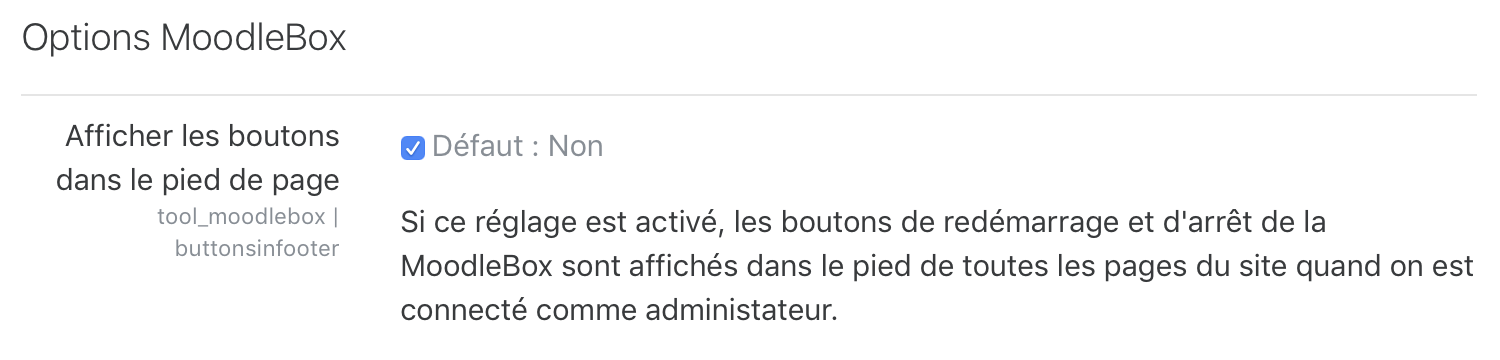
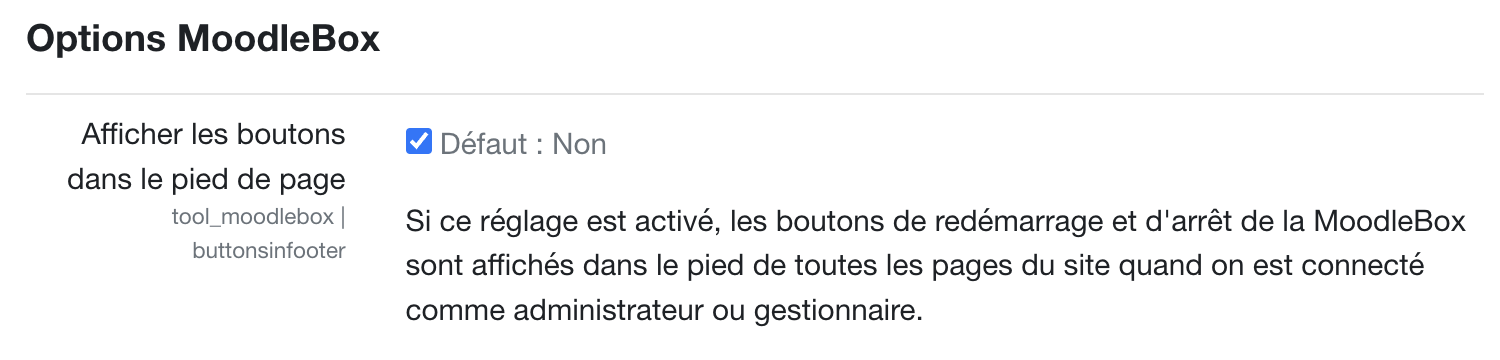
Update documentation and screenshots

diff --git a/content/fr/help/change-password/index.md b/content/fr/help/change-password/index.md
@@ -4,7 +4,7 @@ authors:
   - Nicolas Martignoni
 type: kb
 date: 2018-11-02
-lastmod: 2018-11-02
+lastmod: 2022-08-14
 description: On peut changer le mot de passe principal de la MoodleBox en visitant le tableau de bord dans l'interface d'administration
 slug: changer-mot-de-passe-principal
 categories_weight: 5
@@ -12,7 +12,7 @@ categories:
   - Utilisation
 ---
 
-{{< notice warning >}}
+{{< notice info >}}
 Il est vivement recommandé de __changer immédiatement__ le mot de passe principal de la MoodleBox, afin d'éviter que des personnes non autorisées y pratiquent des modifications non désirées et la rendent inutilisable.
 {{< /notice >}}
 
@@ -20,11 +20,11 @@ Pour changer le mot de passe principal de votre MoodleBox, visitez le tableau de
 
 Ce mot de passe fait partie des informations d'identification principales de la MoodleBox. Il donne accès à l'[interface en ligne de commande][5] de la MoodleBox, au [téléchargement de fichiers par SFTP][6] ainsi qu'à l'[administration de la base de données][7].
 
-{{< figure src="/img/media/change-password-fr.png" title="Changer le mot de passe principal" caption-position="bottom" caption-effect="appear" width="600"  >}}
+{{< figure src="change-password-fr.png" title="Changer le mot de passe principal" class="centered-image" width="490" >}}
 
 Dans la section __Mot de passe MoodleBox__, saisissez votre nouveau mot de passe, le même dans les deux champs. En cliquant sur l'icône d'œil, vous pouvez faire apparaître les caractères que vous avez tapés. Nous recommandons de choisir un mot de passe fort.
 
-{{< notice info >}}
+{{< notice tip >}}
 Le mot de passe du compte administrateur de Moodle __n'est pas modifié__ par cette opération. Pour changer ce mot de passe-là, connectez-vous à Moodle, visitez les <a href="http://moodlebox.home/user/preferences.php" target="_blank">préférences de votre profil</a> et <a href="http://moodlebox.home/login/change_password.php" target="_blank">changez le mot de passe</a>.
 {{< /notice >}}
 

diff --git a/content/fr/help/access-to-the-database/index.md b/content/fr/help/access-to-the-database/index.md
@@ -4,17 +4,13 @@ authors:
   - Nicolas Martignoni
 type: kb
 date: 2017-04-20
-lastmod: 2019-07-12
+lastmod: 2022-08-14
 description: Pour accéder à la base de données de Moodle de la MoodleBox au moyen de Adminer, consultez les informations ci-dessous.
 slug: acces-base-de-donnees
 categories:
   - Maintenance
 
 ---
-{{< notice warning >}}
-Il est fortement déconseillé de modifier manuellement la base de données de Moodle. N’effectuez de telles opérations que si vous savez exactement ce que vous faites. Dans tous les cas, __aucune assistance n'est assurée__ sur ce sujet et nous déclinons toute responsabilité pour des pertes de données.
-{{< /notice >}}
-
 La MoodleBox permet à des fins d'administration un accès direct à la base de données de Moodle, au moyen du logiciel [Adminer][3]. Pour accéder à l'interface de connexion, on charge l'URL [http://moodlebox.home/adminer.php][1] dans un navigateur. Les données de connexion sont indiquées ci-dessous. Bien entendu le mot de passe sera différent si vous l'avez changé d'une façon ou d'une autre.
 
   * Nom d'utilisateur : __moodlebox__
@@ -23,7 +19,7 @@ La MoodleBox permet à des fins d'administration un accès direct à la base de 
 {{< figure src="adminer.png" width="782" title="Accès base de données avec Adminer" class="centered-image" >}}
 
 {{< notice info >}}
-Dans les versions de la MoodleBox antérieure à la version 3.0.0, l'outil phpMyAdmin était utilisé pour accéder à la base de données, via l'URL [http://moodlebox.home/phpmyadmin](http://moodlebox.home/phpmyadmin).
+Il est fortement déconseillé de modifier manuellement la base de données de Moodle. N’effectuez de telles opérations que si vous savez exactement ce que vous faites. Dans tous les cas, __aucune assistance n'est assurée__ sur ce sujet et nous déclinons toute responsabilité pour des pertes de données.
 {{< /notice >}}
 
  [1]: http://moodlebox.home/adminer.php

diff --git a/content/fr/help/copy-the-disk-image/index.md b/content/fr/help/copy-the-disk-image/index.md
@@ -4,18 +4,20 @@ authors:
   - Nicolas Martignoni
 type: kb
 date: 2017-04-17
-lastmod: 2018-12-15
+lastmod: 2022-08-14
 description: Pour copier l'image-disque MoodleBox sur une carte SD, suivez ces instructions.
 slug: copier-limage-disque-sur-une-carte-sd
 categories_weight: 4
 categories:
   - Premiers pas
 ---
+Vous avez déjà téléchargé l'[image-disque][1] ?
 
-Commencez par [télécharger balenaEtcher][2] (anciennement appelé _Etcher_), puis suivez les instructions dans balenaEtcher pour copier sur votre carte microSD le fichier __{{< ghrelease user="moodlebox" repo="moodlebox" data="file_name" >}}__ que [vous avez téléchargé][1].
+Poursuivez en [téléchargeant balenaEtcher][2] (anciennement appelé _Etcher_), puis suivez les instructions dans balenaEtcher pour copier sur votre carte microSD le fichier __{{< ghrelease user="moodlebox" repo="moodlebox" data="file_name" >}}__ que [vous avez téléchargé][1].
 
-{{< figure src="/img/media/etcher-copy.png" title="Copie avec balenaEtcher" caption-position="bottom" caption-effect="appear" width="800" >}}
+{{< figure src="/img/media/etcher-copy.png" title="Copie avec balenaEtcher" class="centered-image" width="700" >}}
 
+<!--
 ### Pour les geeks
 
 Si vous préférez utiliser la ligne de commande pour copier l'image-disque sur votre carte, décompressez le fichier __{{< ghrelease user="moodlebox" repo="moodlebox" data="file_name" >}}__ que [vous avez téléchargé][1] et suivez les [instructions][3] pour copier l'image-disque __moodlebox-{{< ghrelease user="moodlebox" repo="moodlebox" data="version" >}}.img__ sur la carte microSD.
@@ -23,6 +25,7 @@ Si vous préférez utiliser la ligne de commande pour copier l'image-disque sur 
   * [Instructions pour Mac OS][4]
   * [Instructions pour Windows][5]
   * [Instructions pour Linux][6]
+ -->
 
  [1]: {{< relref "help/download-the-disk-image" >}}
  [2]: https://www.balena.io/etcher/

diff --git a/content/de/help/change-password/index.md b/content/de/help/change-password/index.md
@@ -4,7 +4,7 @@ authors:
   - Nicolas Martignoni
 type: kb
 date: 2018-11-02
-lastmod: 2018-11-02
+lastmod: 2022-08-14
 description: Sie können das Hauptpasswort der MoodleBox ändern, indem Sie das Dashboard in der Administration durchsuchen.
 slug: change-main-password
 categories_weight: 5
@@ -12,7 +12,7 @@ categories:
   - Nutzung
 ---
 
-{{< notice warning >}}
+{{< notice info >}}
 Es wird dringend empfohlen, das Hauptkennwort der MoodleBox __sofort zu ändern__, um zu verhindern, dass Unbefugte unerwünschte Änderungen vornehmen und es unbrauchbar machen.
 {{< /notice >}}
 
@@ -20,11 +20,11 @@ Um das Hauptpasswort Ihrer MoodleBox zu ändern, besuchen Sie das Dashboard in d
 
 Dieses Passwort ist Teil der Hauptzugangsdaten Ihrer MoodleBox. Sie ermöglicht den [Zugang zum Betriebssystem][5] der MoodleBox, auf den [SFTP-Datei-Upload][6] sowie auf die [Datenbankverwaltung][7].
 
-{{< figure src="/img/media/change-password-de.png" title="Ändern des Hauptkennworts" caption-position="bottom" caption-effect="appear" width="600"  >}}
+{{< figure src="change-password-de.png" title="Ändern des Hauptkennworts" class="centered-image" width="480" >}}
 
 Geben Sie im Abschnitt __MoodleBox-Kennwort__ Ihr neues Kennwort ein, in beiden Feldern gleich. Durch Klicken auf das Augensymbol können Sie sich die von Ihnen eingegebenen Zeichen anzeigen lassen. Wir empfehlen, ein sicheres Passwort zu wählen.
 
-{{< notice info >}}
+{{< notice tip >}}
 Das Kennwort für das Moodle-Administratorkonto __wird durch diesen Vorgang nicht geändert__. Um dieses Kennwort zu ändern, melden Sie sich bei Moodle an, besuchen Sie die <a href="http://moodlebox.home/user/preferences.php" target="_blank">Einstellungen für Ihr Profil</a> und <a href="http://moodlebox.home/login/change_password.php" target="_blank">ändern Sie das Kennwort</a>.
 {{< /notice >}}
 

diff --git a/content/fr/help/buttons-in-footer/index.md b/content/fr/help/buttons-in-footer/index.md
@@ -4,7 +4,7 @@ authors:
   - Nicolas Martignoni
 type: kb
 date: 2019-05-20
-lastmod: 2019-07-15
+lastmod: 2022-08-14
 description: Pour une administration plus simple, il est possible d'afficher les boutons de redémarrage et d'arrêt de la MoodleBox dans le pied de toutes les pages de Moodle.
 slug: boutons-dans-le-pied-de-page
 categories_weight: 30
@@ -12,10 +12,6 @@ categories:
   - Utilisation
 
 ---
-{{< notice note >}}
-Cette fonctionnalité est disponible à partir de la __version 2.7.0__ de MoodleBox. Pour en bénéficier sur une version antérieure, il suffit de [mettre à jour le plugin _MoodleBox_](http://moodlebox.home/admin/plugins.php?updatesonly=0&contribonly=1) dans l'interface d'administration de Moodle.
-{{< /notice >}}
-
 Grâce à l'affichage en pied de page des boutons de redémarrage et d'arrêt de la MoodleBox, son administration est plus intuitive et plus simple.
 
 {{< figure src="buttons-footer.png" width="800" title="Boutons de redémarrage et d'arrêt en pied de page" class="centered-image" >}}
@@ -26,7 +22,7 @@ L'activation de cette fonctionnalité s'effectue en visitant les options de la M
 
 Après avoir enregistré les modifications, les boutons de redémarrage et d'arrêt de la MoodleBox seront affichés pour les rôles Moodle avec la capacité `tool/moodlebox:viewbuttonsinfooter`, accordée par défaut au rôle de gestionnaire et bien entendu aux administrateurs. Ils ne sont pas affichés pour les autres utilisateurs.
 
-{{< notice warning >}}
+{{< notice tip >}}
 Afin de limiter au maximum les risques de corruption de données sur la carte microSD, pour éteindre la MoodleBox, il n'est pas recommandé de débrancher l'alimentation sans précaution. Il est préférable de commander manuellement son arrêt au préalable.
 {{< /notice >}}
 

diff --git a/content/en/help/change-password/index.md b/content/en/help/change-password/index.md
@@ -4,7 +4,7 @@ authors:
   - Nicolas Martignoni
 type: kb
 date: 2018-11-02
-lastmod: 2018-11-02
+lastmod: 2022-08-14
 description: You can change the main password of the MoodleBox by browsing the dashboard in the administration interface
 slug: change-main-password
 categories_weight: 5
@@ -12,7 +12,7 @@ categories:
   - Usage
 ---
 
-{{< notice warning >}}
+{{< notice info >}}
 It is strongly recommended to __immediately change__ the main password of the MoodleBox, in order to prevent unauthorized persons from making unwanted changes and rendering it unusable.
 {{< /notice >}}
 
@@ -20,11 +20,11 @@ To change the main password of your MoodleBox, visit the dashboard in the admini
 
 This password is part of the main credentials of your MoodleBox. It gives access to the [command line interface][5] of the MoodleBox, to the [SFTP file upload][6]  as well as to the [database administration][7].
 
-{{< figure src="/img/media/change-password-en.png" title="Change the main password" caption-position="bottom" caption-effect="appear" width="600"  >}}
+{{< figure src="change-password-en.png" title="Change the main password" class="centered-image" width="425" >}}
 
 In the __MoodleBox password section__, enter your new password, the same in both fields. By clicking on the eye icon, you can display the characters you have typed. We recommend choosing a strong password.
 
-{{< notice info >}}
+{{< notice tip >}}
 The password for the Moodle administrator account __is not changed__ by this operation. To change that password, log in to Moodle, visit the <a href="http://moodlebox.home/user/preferences.php" target="_blank">preferences for your profile</a> and <a href="http://moodlebox.home/login/change_password.php" target="_blank">change the password</a>.
 {{< /notice >}}
 

diff --git a/content/de/help/access-to-the-database/index.md b/content/de/help/access-to-the-database/index.md
@@ -6,17 +6,13 @@ authors:
   - Ralf Krause
 type: kb
 date: 2018-02-02
-lastmod: 2019-07-12
+lastmod: 2022-08-14
 description: Um mit Adminer auf die Moodle-Datenbank von MoodleBox zuzugreifen, lesen Sie die folgende Informationen
 slug: zugrif-auf-die-datenbank
 categories:
   - Wartung
 
 ---
-{{< notice warning >}}
-Es wird dringend davon abgeraten, die Moodle-Datenbank direkt zu manipulieren. Tun Sie dies nur, wenn Sie genau wissen, was Sie tun. In jedem Fall wird __keine Unterstützung__ zu diesem Thema geleistet und der Autor übernimmt keinerlei Verantwortung für Datenverluste.
-{{< /notice >}}
-
 Die MoodleBox erlaubt den direkten Zugriff auf die Moodle-Datenbank mit der Software [Adminer][1]. Um sich über PhpMyAdmin einzuloggen, rufen Sie im Browser die URL [http://moodlebox.home/adminer.php][1] auf. Die Zugangsdaten sind wie folgt. Natürlich lauten die Zugänge anders, wenn Sie etwas geändert haben.
 
   * Username: __moodlebox__
@@ -25,7 +21,7 @@ Die MoodleBox erlaubt den direkten Zugriff auf die Moodle-Datenbank mit der Soft
 {{< figure src="adminer.png" width="782" title="Datenbank Zugriff mit Adminer" class="centered-image" >}}
 
 {{< notice info >}}
-In MoodleBox-Versionen vor Version 3.0.0 wurde das Tool phpMyAdmin verwendet, um über die URL [http://moodlebox.home/phpmyadmin](http://moodlebox.home/phpmyadmin) auf die Datenbank zuzugreifen.
+Es wird dringend davon abgeraten, die Moodle-Datenbank direkt zu manipulieren. Tun Sie dies nur, wenn Sie genau wissen, was Sie tun. In jedem Fall wird __keine Unterstützung__ zu diesem Thema geleistet und der Autor übernimmt keinerlei Verantwortung für Datenverluste.
 {{< /notice >}}
 
  [1]: http://moodlebox.home/adminer.php

diff --git a/content/de/help/access-to-moodle/index.md b/content/de/help/access-to-moodle/index.md
@@ -6,7 +6,7 @@ authors:
   - Ralf Krause
 type: kb
 date: 2018-02-01
-lastmod: 2019-07-13
+lastmod: 2022-08-14
 description: Für die Anmeldung in der Moodle-Plattform auf der MoodleBox müssen Sie sich zunächst in deren drahtlosem WLAN-Netzwerk verbinden, dann http://moodlebox.home/ öffnen
 slug: anmelden-in-moodle
 categories_weight: 6
@@ -21,15 +21,11 @@ Nachdem Sie mit dem WLAN der MoodleBox verbunden sind, können Sie über Ihren B
   * Anmeldename: __moodlebox__
   * Kennwort: __Moodlebox4$__
 
-{{< figure src="moodle-login-de.png" title="Anmelden in Moodle" caption-position="bottom" caption-effect="appear" width="610" >}}
+{{< figure src="moodle-login-de.png" title="Anmelden in Moodle" class="centered-image" width="618" >}}
 
 Sie sind jetzt mit dem Administratorkonto im Moodle auf der MoodleBox verbunden. __Es wird dringend empfohlen, das Initialkennwort__ des Administratorkontos bei der ersten Anmeldung zu ändern.
 
 Die Moodle-Plattform hat genau ein Nutzerkonto (Administrator), wenn es bereit gestellt wird. Alle weiteren Nutzerkonten müssen Sie selber hinzufügen. Beim Start ist die Moodle-Plattform leer und es sind keine Kurse angelegt. Die Moodle-Plattform muss von Ihnen selber angepasst werden, genauso wie Sie auch alle Kursinhalte (Materialien, Aktivitäten, etc.) erstellen müssen. Falls Sie nicht genau wissen wie das geht, finden Sie alle notwendigen Infos in der [Moodle-Dokumentation][3].
-
-{{< notice info >}}
-Der seit Version 2.5.2 deprecated Benutzername __admin__ wird ab Version 3.0.0 der MoodleBox nicht mehr installiert.
-{{< /notice >}}
 
  [1]: {{< relref "help/wi-fi-connection" >}}
  [2]: http://moodlebox.home/

diff --git a/content/de/help/buttons-in-footer/index.md b/content/de/help/buttons-in-footer/index.md
@@ -4,7 +4,7 @@ authors:
   - Nicolas Martignoni
 type: kb
 date: 2019-05-20
-lastmod: 2019-07-15
+lastmod: 2022-08-14
 description: Für eine einfachere Administration ist es möglich, die MoodleBox Neustart- und Ausschalten-Schaltflächen in der Fußzeile aller Moodle-Seiten anzuzeigen.
 slug: schaltflaechen-in-fusszeile
 categories_weight: 30
@@ -12,10 +12,6 @@ categories:
   - Nutzung
 
 ---
-{{< notice note >}}
-Dieses Feature ist ab der __version 2.7.0__ von MoodleBox verfügbar. Um davon auf einer früheren Version zu profitieren, [aktualisieren Sie einfach das MoodleBox-Plugin](http://moodlebox.home/admin/plugins.php?updatesonly=0&contribonly=1) in der Moodle-Administrationsschnittstelle.
-{{< /notice >}}
-
 Dank der Anzeige am unteren Ende der Seite der Neustart- und Ausschalten-Schaltflächen der MoodleBox ist die Verwaltung intuitiver und einfacher.
 
 {{< figure src="buttons-footer.png" width="800" title="Neustart- und Ausschalten-Schaltflächen in der Fußzeile" class="centered-image" >}}
@@ -26,7 +22,7 @@ Diese Funktion wird aktiviert, indem Sie die MoodleBox-Einstellungen in der Admi
 
 Nach dem Speichern der Änderungen werden die MoodleBox Neustart- und Ausschalten-Schaltflächen für Moodle-Rollen mit dem `tool/moodlebox:viewbuttonsinfooter` Recht angezeigt, das standardmäßig der Managerrolle und natürlich den Administratoren gewährt wird. Sie werden für andere Benutzer nicht angezeigt.
 
-{{< notice warning >}}
+{{< notice tip >}}
 Um das Risiko von Datenverlusten auf der microSD-Karte zu minimieren, fahren Sie bitte zuerst die MoodleBox manuell herunter, bevor Sie die Stromversorgung ausschalten.
 {{< /notice >}}
 

diff --git a/content/en/help/access-to-the-database/index.md b/content/en/help/access-to-the-database/index.md
@@ -4,17 +4,13 @@ authors:
   - Nicolas Martignoni
 type: kb
 date: 2017-04-20
-lastmod: 2019-07-12
+lastmod: 2022-08-14
 description: To access the MoodleBox Moodle database using Adminer, see the information below.
 slug: access-to-the-database-management-interface
 categories:
   - Maintenance
 
 ---
-{{< notice warning >}}
-It is strongly advised not to manually change the Moodle database unless you know exactly what you are doing. In any case, __no support is provided__ on this subject and we take no responsability for any loss of data.
-{{< /notice >}}
-
 The MoodleBox allows access to the Moodle database for administration purpose, via the [Adminer][3] software. To access to login interface, type the following URL [http://moodlebox.home/adminer.php][1] in the address bar of your browser, and type the credentials below. Of course the password is different if you have changed it.
 
   * Username: __moodlebox__
@@ -23,7 +19,7 @@ The MoodleBox allows access to the Moodle database for administration purpose,
 {{< figure src="adminer.png" width="782" title="Database access with Adminer" class="centered-image" >}}
 
 {{< notice info >}}
-In MoodleBox versions prior to version 3.0.0, the phpMyAdmin tool was used to access the database, via the URL [http://moodlebox.home/phpmyadmin](http://moodlebox.home/phpmyadmin).
+It is strongly advised not to manually change the Moodle database unless you know exactly what you are doing. In any case, __no support is provided__ on this subject and we take no responsability for any loss of data.
 {{< /notice >}}
 
  [1]: http://moodlebox.home/adminer.php

diff --git a/content/en/help/buttons-in-footer/index.md b/content/en/help/buttons-in-footer/index.md
@@ -4,7 +4,7 @@ authors:
   - Nicolas Martignoni
 type: kb
 date: 2019-05-20
-lastmod: 2019-07-15
+lastmod: 2022-08-14
 description: For easier administration, it is possible to display the MoodleBox restart and stop buttons in the footer of all Moodle pages.
 slug: buttons-in-footer
 categories_weight: 30
@@ -12,10 +12,6 @@ categories:
   - Usage
 
 ---
-{{< notice note >}}
-This feature is available from __version 2.7.0__ of MoodleBox. To benefit from this on a previous version, simply [update the MoodleBox plugin](http://moodlebox.home/admin/plugins.php?updatesonly=0&contribonly=1) in the Moodle administration interface.
-{{< /notice >}}
-
 Thanks to the display at the bottom of the page of the MoodleBox's restart and stop buttons, its administration is more intuitive and easier.
 
 {{< figure src="buttons-footer.png" width="800" title="Restart and stop buttons in footer" class="centered-image" >}}
@@ -26,7 +22,7 @@ This feature is enabled by visiting the MoodleBox settings in the administration
 
 After saving the changes, the MoodleBox restart and stop buttons will be displayed for Moodle roles with the `tool/moodlebox:viewbuttonsinfooter` capability, which is granted by default to the manager role and of course to the administrators. They are not displayed for other users.
 
-{{< notice warning >}}
+{{< notice tip >}}
 In order to minimize the risk of data corruption on the microSD card, it is not recommended to unplug the power supply without care to shutdown the MoodleBox. It is preferable to manually control its shutdown beforehand.
 {{< /notice >}}
 

diff --git a/content/de/help/copy-the-disk-image/index.md b/content/de/help/copy-the-disk-image/index.md
@@ -5,7 +5,7 @@ authors:
   - Ralf Krause
 type: kb
 date: 2017-04-20
-lastmod: 2018-12-15
+lastmod: 2022-08-14
 description: Um das MoodleBox Disk-Image auf eine SD-Karte zu kopieren, folgen Sie diese Anweisungen.
 slug: disk-image-kopieren
 categories_weight: 4
@@ -17,8 +17,9 @@ Haben Sie das [Disk-Image][1] heruntergeladen?
 
 Installieren Sie zuerst [balenaEtcher][2] (früher bekannt als _Etcher_) auf Ihrem Computer. Befolgen Sie dann die Anleitung für balenaEtcher, um das Disk-Image __{{< ghrelease user="moodlebox" repo="moodlebox" data="file_name" >}}__ auf Ihre microSD-Karte zu flashen.
 
-{{< figure src="/img/media/etcher-copy.png" title="Kopieren mit balenaEtcher" caption-position="bottom" caption-effect="appear" width="800" >}}
+{{< figure src="/img/media/etcher-copy.png" title="Kopieren mit balenaEtcher" class="centered-image" width="700" >}}
 
+<!--
 ### Für Experten
 
 Falls Sie es als Experte bevorzugen, zum Flashen der microSD-Karte einige Befehlszeilen ins Terminal einzugeben, geht dies auch. Extrahieren Sie die heruntergeladene Datei __{{< ghrelease user="moodlebox" repo="moodlebox" data="file_name" >}}__ und folgen Sie dann den [Anweisungen][3], um das Disk-Image __moodlebox-{{< ghrelease user="moodlebox" repo="moodlebox" data="version" >}}.img__ auf Ihre microSD-Karte zu kopieren.
@@ -27,6 +28,7 @@ Falls Sie es als Experte bevorzugen, zum Flashen der microSD-Karte einige Befehl
   * [Anleitung für Windows][5]
   * [Anleitung für Linux][6]
 
+ -->
 
  [1]: {{< relref "help/download-the-disk-image" >}}
  [2]: https://www.balena.io/etcher/
